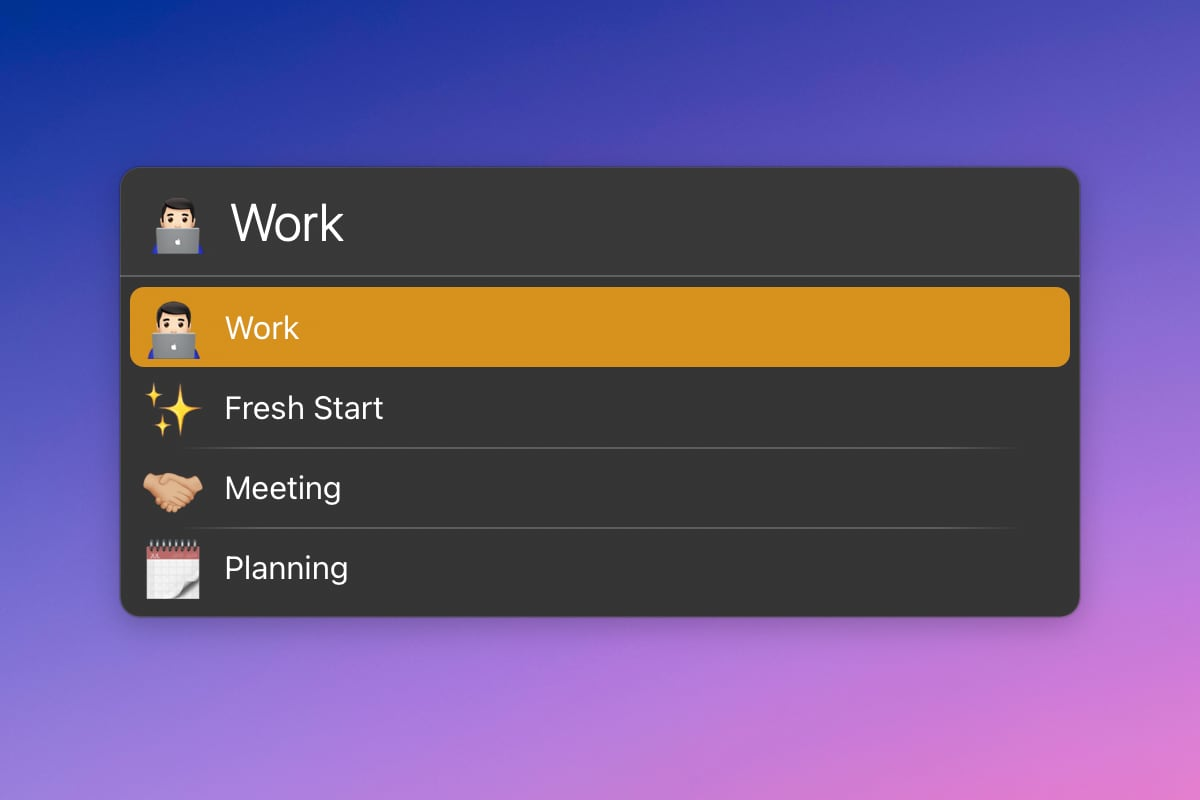
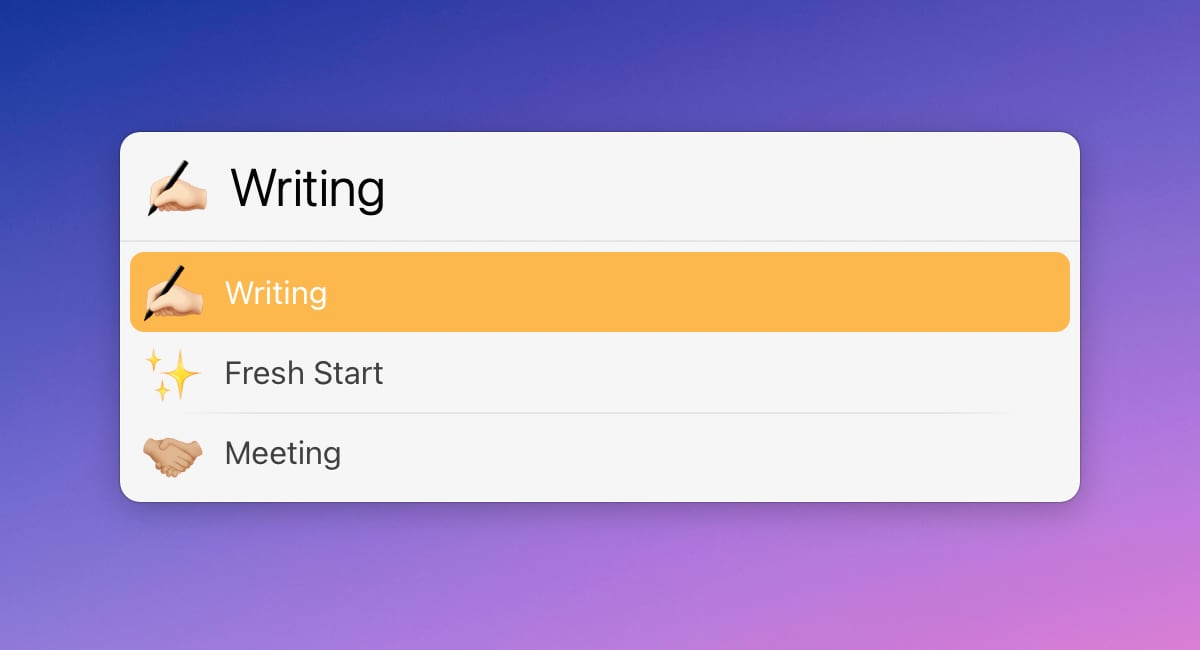
Quit Applications by Context README Update

diff --git a/Quit-Applications/README.md b/Quit-Applications/README.md
@@ -5,18 +5,23 @@
 <img src="01.gif" width="600"/> 
 
 The purpose of this action is to **limit distractions by quitting apps** that are not needed for what you are currently doing.  
-You can set up **custom contexts**, like e.g. "Work", "Meeting", etc., in a plain text file, which will open on first launch or if you hold <kbd>option</kbd>. You can even pick an emoji to be displayed as the icon for your context. 
+
+## Custom Contexts
+
+You can set up **custom contexts** in a **plain text file**, which will open on first launch or if you hold <kbd>Option</kbd>. It's very simple. Choose a name and an emoji that will be displayed as the icon for that context (e.g. `Writing:✍🏻`). 
 
 <img src="02.jpg" width="600"/>   
 
-For each context, you can specify apps that are necessary in that context. The action will quit all other apps. This applies only to apps that show up in the application switcher (<kbd>command</kbd> + <kbd>tab</kbd>). LaunchBar and Finder are also excluded. 
+## Context Configuration
+
+For each context, you can specify apps that are necessary in that context (toggle). The action will quit all other apps. This applies only to apps that show up in the application switcher (<kbd>command</kbd> + <kbd>tab</kbd>). LaunchBar and Finder are also excluded. 
 
 <img src="03.jpg" width="600"/>   
 
 There are some additional options you can configure for each context:  
-- Show alert before quitting  
-- Close Finder windows  
-- Don't quit frontmost application  
+- Show alert before quitting (toggle)
+- Close Finder windows (toggle)
+- Don't quit frontmost application (toggle)
 
 Additionally, you can always protect the frontmost application with <kbd>command</kbd> + <kbd>enter</kbd>, even if you have not set it as the default behavior for the context.
 
